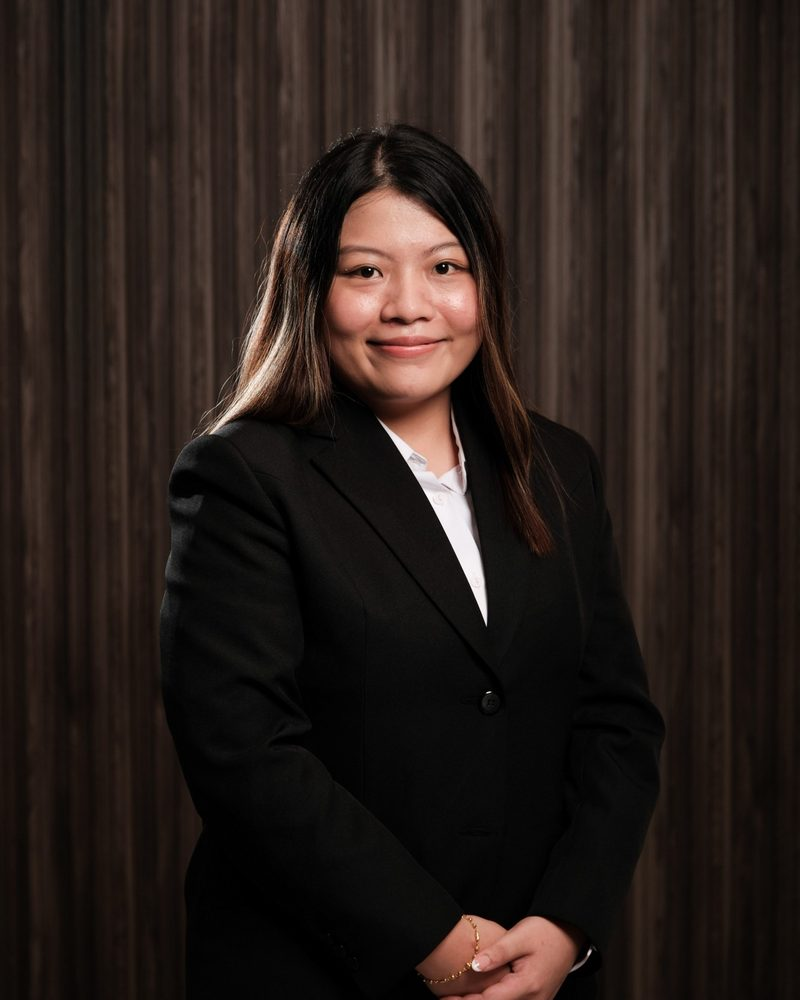
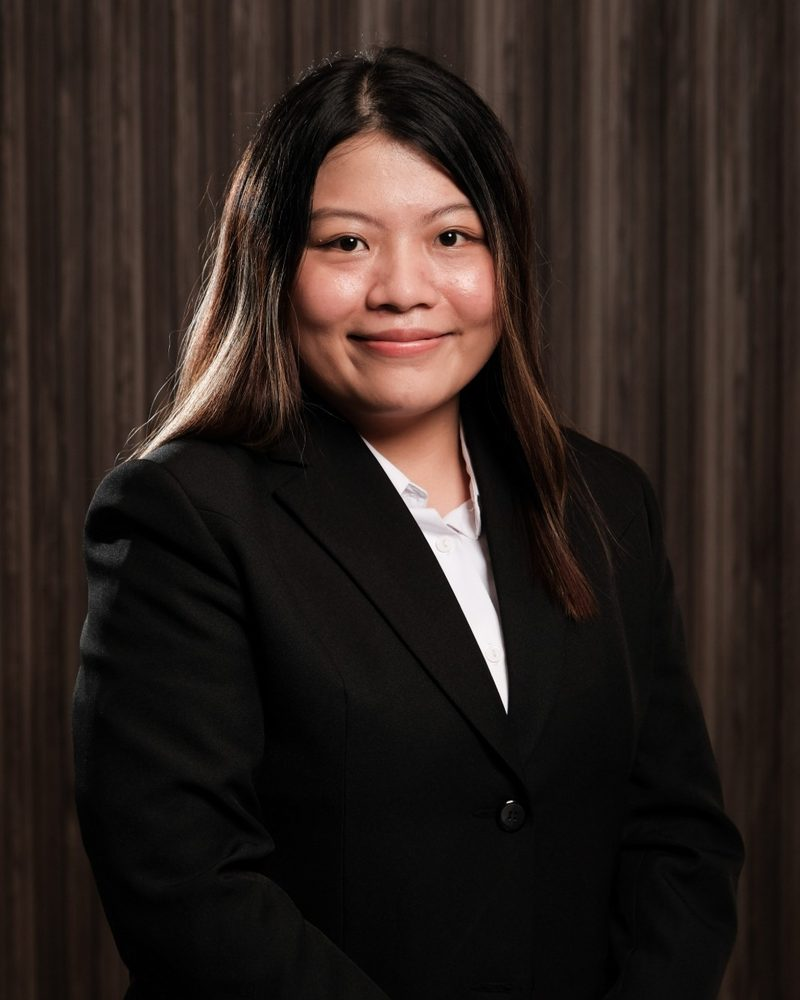
Add paralegal photos, crop headshots to a consistent face size, align team cards
Claude-Session: https://claude.ai/code/session_01FATe1LKK5Z3pjirJ5qLze3

diff --git a/index.html b/index.html
@@ -561,7 +561,7 @@
             <p style="font-size:16px;line-height:1.8;color:#6B6B67;margin:0 0 28px">Our clients, partners and staff are our principal assets &amp; strength, where everyone is treasured &amp; valued for their contribution to the firm.</p>
             <button type="button" sc-camel-on-click="{{ nav.people }}" style="background:none;border:0;border-bottom:1px solid #B99824;padding:6px 0;cursor:pointer;font-size:12.5px;letter-spacing:.1em;text-transform:uppercase;color:#003531" style-hover="color:#8A6A14">Meet the team<span style="font-size:24px;line-height:0;vertical-align:-3px;margin-left:6px;letter-spacing:0">→</span></button>
           </div>
-          <div style="display:grid;grid-template-columns:repeat(3,1fr);gap:22px">
+          <div style="display:grid;grid-template-columns:repeat(3,1fr);gap:22px;align-items:start">
             <button type="button" sc-camel-on-click="{{ nav.khong }}" style="text-align:left;background:none;border:0;padding:0;cursor:pointer" style-hover="opacity:.82">
               <div style="aspect-ratio:4/5;overflow:hidden;background:#EFEEE9"><img src="assets/images/people-khong.jpg" alt="Khong Zhi Jian" loading="lazy" style="width:100%;height:100%;object-fit:cover;object-position:center top;display:block"></div>
               <div style="font-family:'EB Garamond',Georgia,serif;font-size:20px;color:#003531;margin-top:14px">Khong Zhi Jian</div>
@@ -1015,7 +1015,7 @@
       </div>
     </div>
     <div data-reveal="" style="max-width:1440px;margin:0 auto;padding:80px 40px 96px">
-      <div style="display:grid;grid-template-columns:repeat(4,1fr);gap:34px">
+      <div style="display:grid;grid-template-columns:repeat(4,1fr);gap:34px;align-items:start">
         <button type="button" sc-camel-on-click="{{ nav.khong }}" style="text-align:left;background:none;border:0;padding:0;cursor:pointer" style-hover="opacity:.82">
           <div style="aspect-ratio:4/5;overflow:hidden;background:#EFEEE9"><img src="assets/images/people-khong.jpg" alt="Khong Zhi Jian" loading="lazy" style="width:100%;height:100%;object-fit:cover;object-position:center top;display:block"></div>
           <div style="font-family:'EB Garamond',Georgia,serif;font-size:23px;color:#003531;margin-top:16px">Khong Zhi Jian</div>
@@ -1042,14 +1042,14 @@
         </button>
       </div>
       <div style="font-size:12px;letter-spacing:.18em;text-transform:uppercase;color:#8A6A14;margin:72px 0 26px;padding-top:28px;border-top:1px solid #E3E2DD">Paralegals</div>
-      <div style="display:grid;grid-template-columns:repeat(4,1fr);gap:34px">
+      <div style="display:grid;grid-template-columns:repeat(4,1fr);gap:34px;align-items:start">
         <div>
-          <div style="aspect-ratio:4/5;background:#EFEEE9;display:flex;align-items:center;justify-content:center"><img src="assets/images/logo.png" alt="" aria-hidden="true" style="width:38%;height:auto;opacity:.3"></div>
+          <div style="aspect-ratio:4/5;overflow:hidden;background:#EFEEE9"><img src="assets/images/people-sekian.jpg" alt="Leong Sek Ian" loading="lazy" style="width:100%;height:100%;object-fit:cover;object-position:center top;display:block"></div>
           <div style="font-family:'EB Garamond',Georgia,serif;font-size:23px;color:#003531;margin-top:16px">Leong Sek Ian</div>
           <div style="font-size:12px;letter-spacing:.1em;text-transform:uppercase;color:#8A6A14;margin-top:6px">Paralegal</div>
         </div>
         <div>
-          <div style="aspect-ratio:4/5;background:#EFEEE9;display:flex;align-items:center;justify-content:center"><img src="assets/images/logo.png" alt="" aria-hidden="true" style="width:38%;height:auto;opacity:.3"></div>
+          <div style="aspect-ratio:4/5;overflow:hidden;background:#EFEEE9"><img src="assets/images/people-elsya.jpg" alt="Nur Elsya Aqilah" loading="lazy" style="width:100%;height:100%;object-fit:cover;object-position:center top;display:block"></div>
           <div style="font-family:'EB Garamond',Georgia,serif;font-size:23px;color:#003531;margin-top:16px">Nur Elsya Aqilah</div>
           <div style="font-size:12px;letter-spacing:.1em;text-transform:uppercase;color:#8A6A14;margin-top:6px">Paralegal</div>
         </div>
